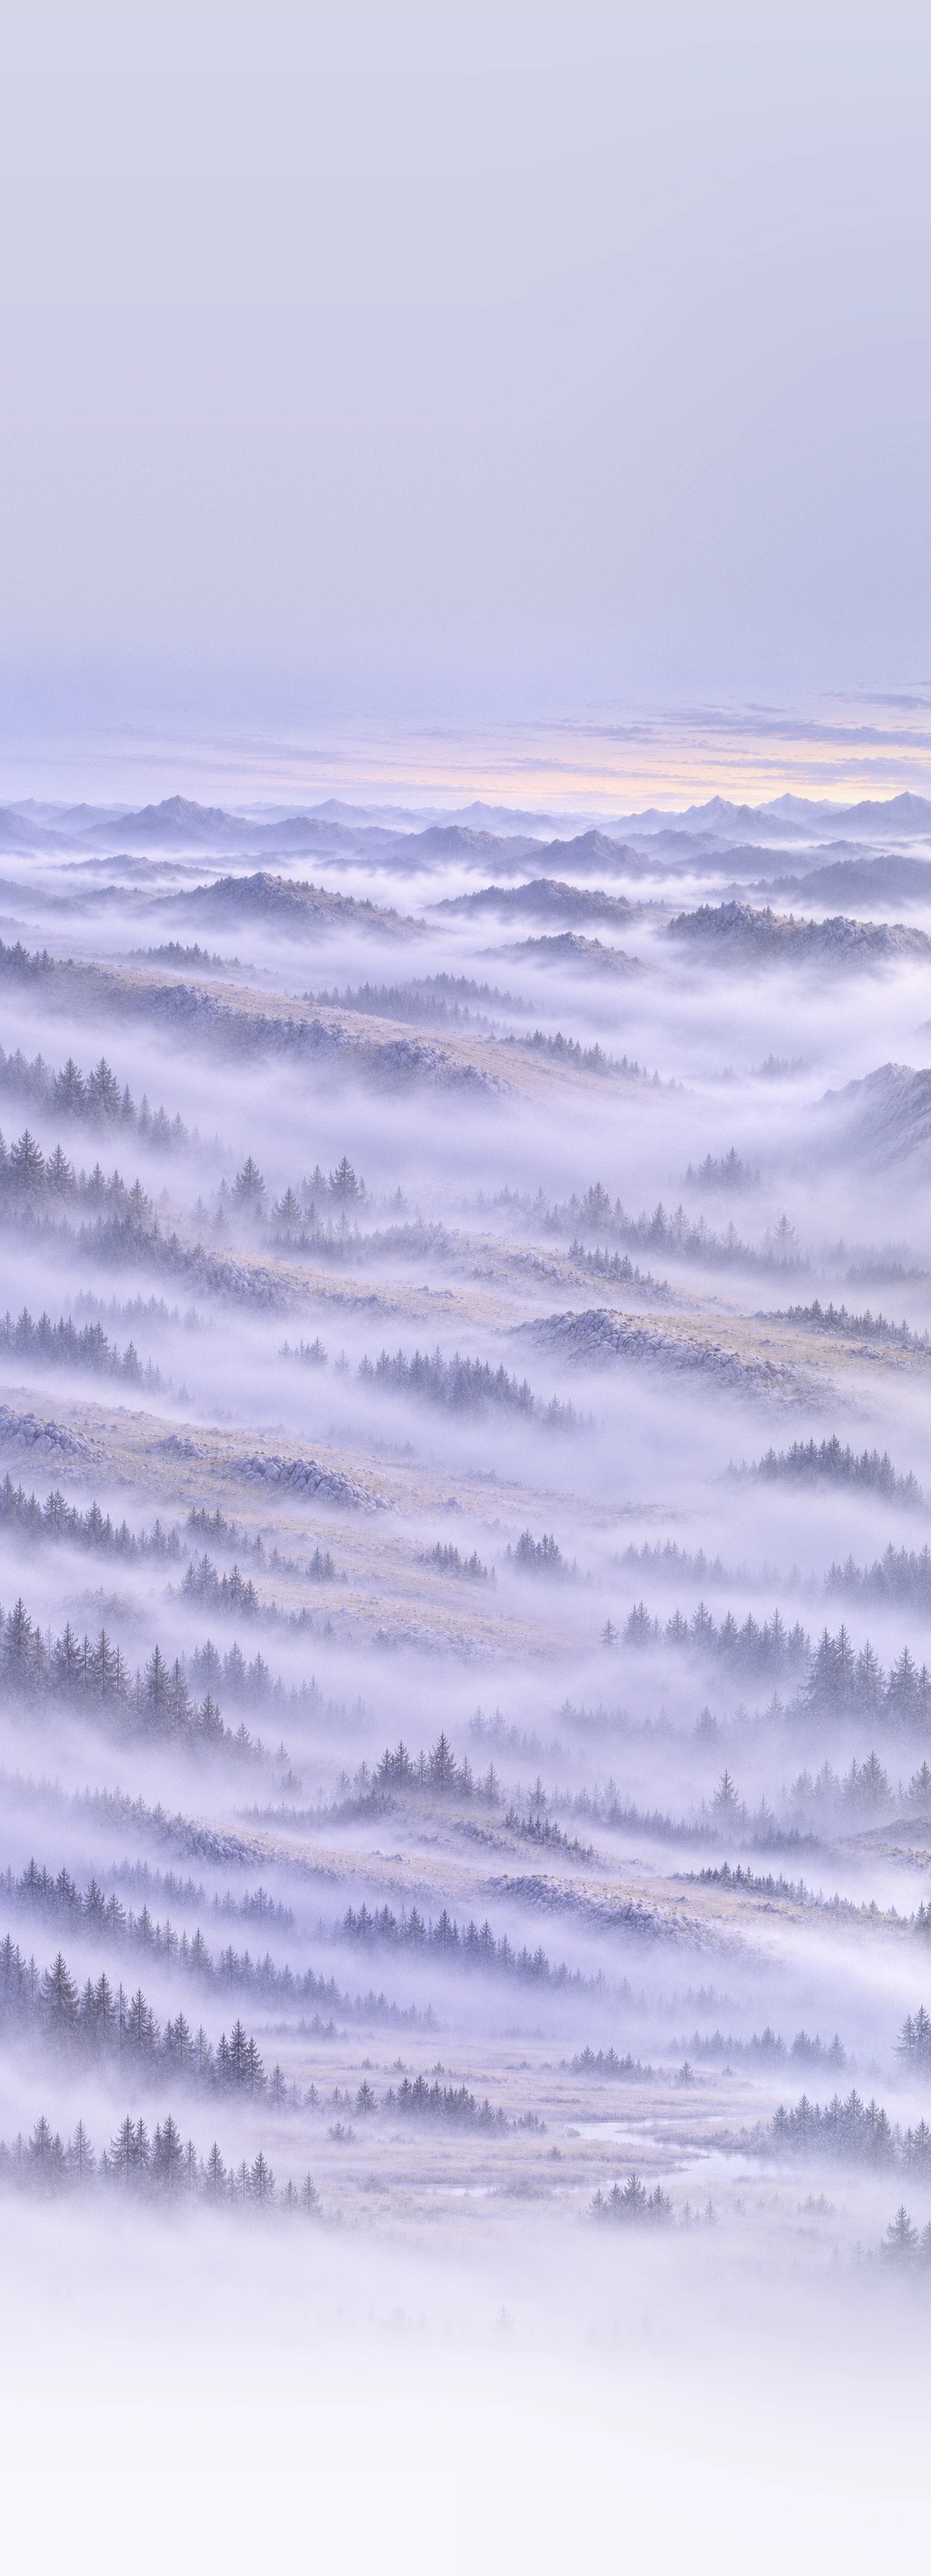
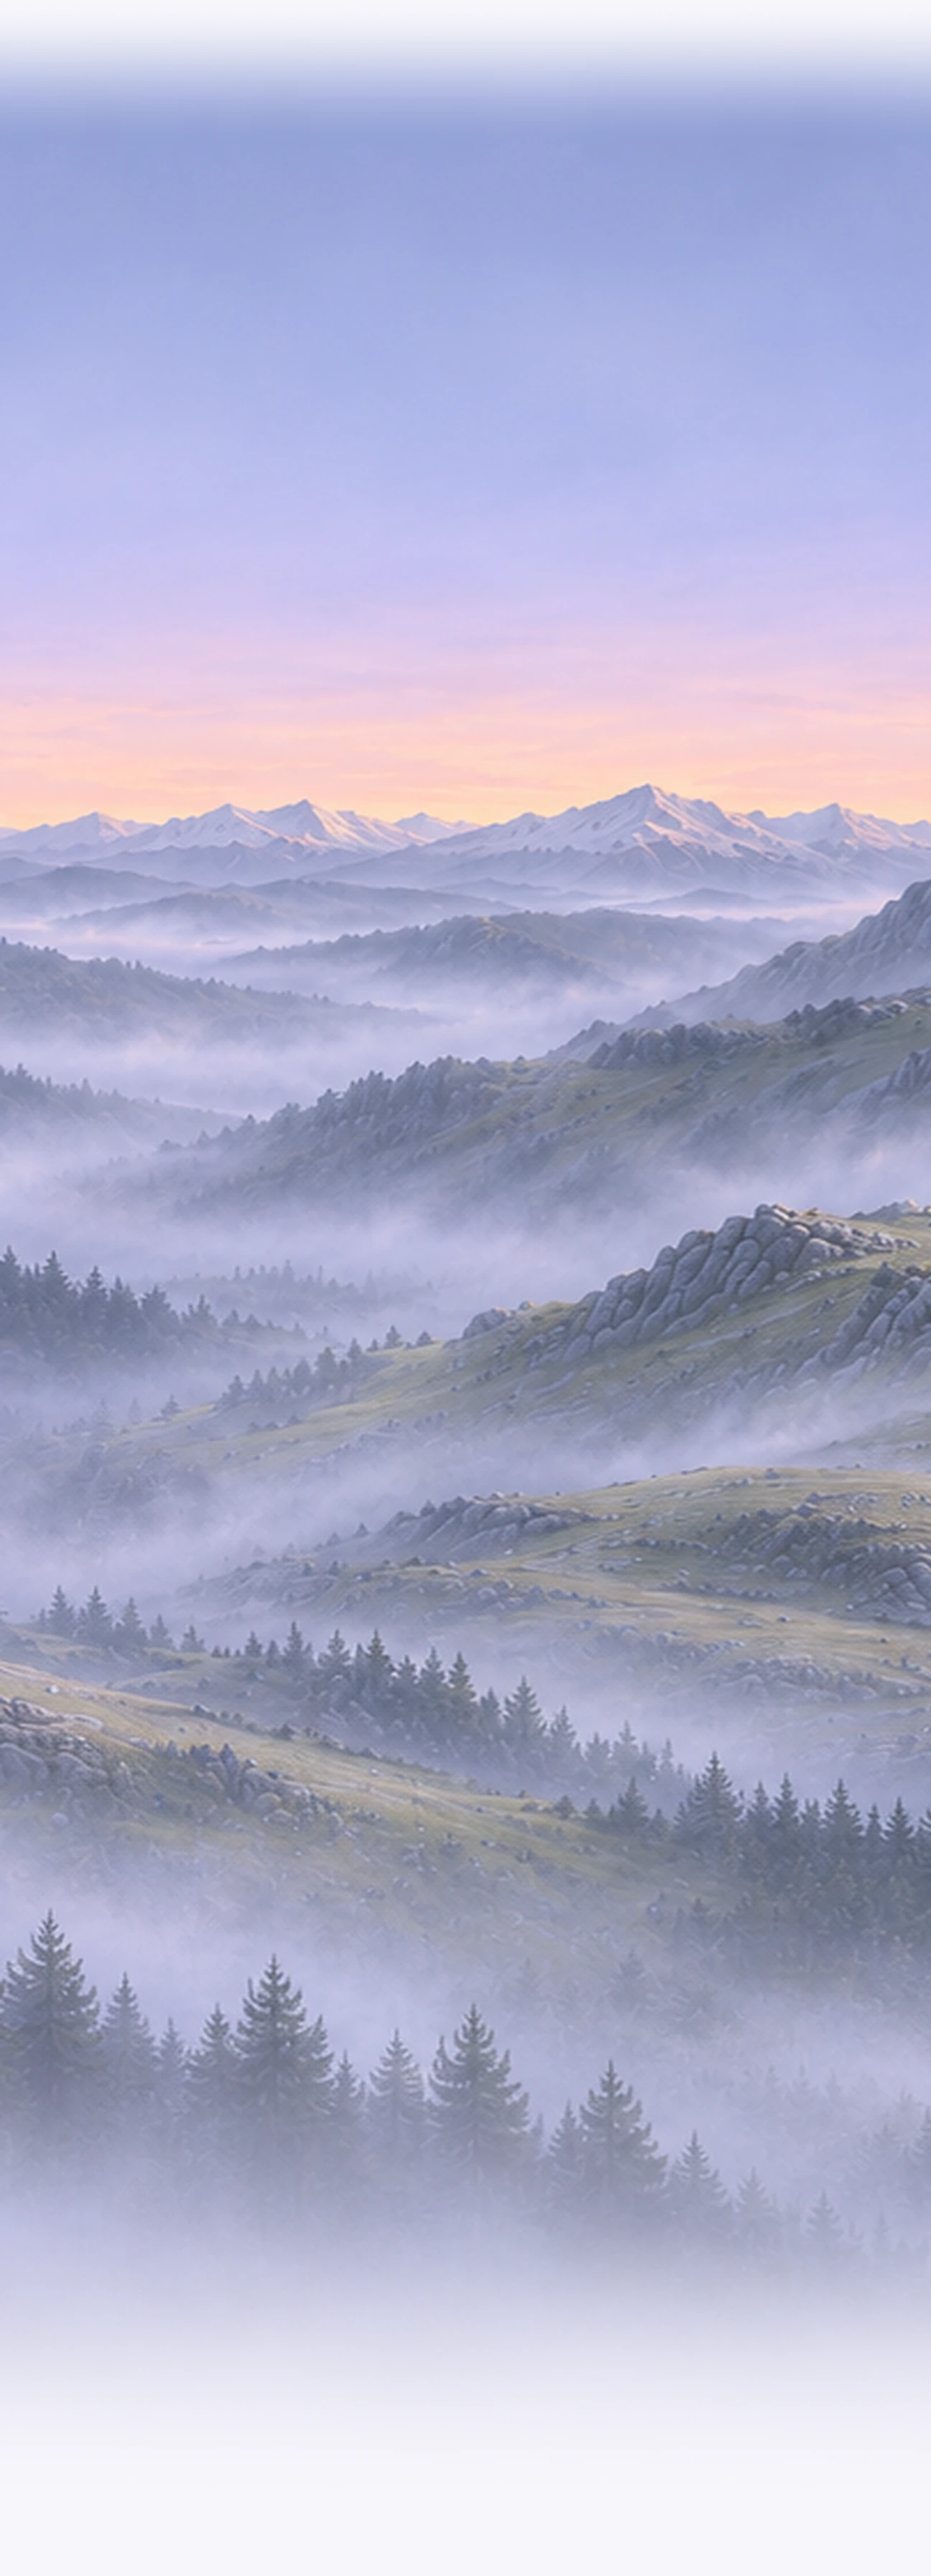
Light world from one painting; Journey trail traced on the new mountain
The light panorama is built from its own master the same way as the dark one (master normalised to 1536 px), so
onboarding, the ceremonies and every tab show the new mountain in both themes. The Ascent's switchbacks now follow
the painting: the bottom meadow, the grassy band above the rock ridge, the painted track back left, the upper
terrace and the snow face to the peak. The Momentum label moves up off the trail.

Claude-Session: https://claude.ai/code/session_01TpqLTggzL92uJWvftw7JkZ

diff --git a/src/core/ascent.ts b/src/core/ascent.ts
@@ -52,27 +52,32 @@ export const LANDMARKS: Record<number, { name: string; icon: 'footsteps' | 'bonf
 export type Point = { x: number; y: number };
 
 /**
- * Switchbacks from the valley floor (bottom left) to the summit (upper right), on the Journey painting. Checked against the painting in the continuous world: two turns
- * sit on solid ground. At the left turn (days 37–39) the trail crossed a pocket of mist above the ridge; it now turns on the
- * ridge and climbs the grassy terrace. At the right turn (days 53–56) it ran along the rock's misty skyline; it
- * now stays on the rock.
+ * Switchbacks from the valley floor (bottom left) to the summit (upper right), traced on the single-painting world
+ * (design/canvas/build_world_from_master.py): along the bottom meadow, up the grassy band above the rock ridge,
+ * back left along the painted track, across the upper terrace, then up the snow face to the peak.
  */
 const WAYPOINTS: Point[] = [
-  { x: 0.07, y: 0.9 },
-  { x: 0.34, y: 0.92 },
-  { x: 0.62, y: 0.87 },
-  { x: 0.82, y: 0.78 },
-  { x: 0.6, y: 0.7 },
-  { x: 0.3, y: 0.66 },
-  { x: 0.19, y: 0.59 },
-  { x: 0.255, y: 0.545 },
-  { x: 0.34, y: 0.495 },
-  { x: 0.62, y: 0.45 },
-  { x: 0.76, y: 0.395 },
-  { x: 0.62, y: 0.29 },
-  { x: 0.5, y: 0.22 },
-  { x: 0.6, y: 0.15 },
-  { x: 0.7, y: 0.105 },
+  { x: 0.05, y: 0.9 },
+  { x: 0.28, y: 0.885 },
+  { x: 0.5, y: 0.8 },
+  { x: 0.7, y: 0.735 },
+  { x: 0.84, y: 0.705 },
+  { x: 0.9, y: 0.665 },
+  { x: 0.83, y: 0.625 },
+  { x: 0.66, y: 0.595 },
+  { x: 0.5, y: 0.555 },
+  { x: 0.34, y: 0.51 },
+  { x: 0.25, y: 0.47 },
+  { x: 0.24, y: 0.43 },
+  { x: 0.32, y: 0.4 },
+  { x: 0.46, y: 0.385 },
+  { x: 0.6, y: 0.365 },
+  { x: 0.7, y: 0.34 },
+  { x: 0.72, y: 0.3 },
+  { x: 0.65, y: 0.265 },
+  { x: 0.6, y: 0.22 },
+  { x: 0.64, y: 0.16 },
+  { x: 0.73, y: 0.09 },
 ];
 
 export const SUMMIT = WAYPOINTS[WAYPOINTS.length - 1];

diff --git a/src/components/Ascent.tsx b/src/components/Ascent.tsx
@@ -24,7 +24,7 @@ const DOTS = trailDots(3);
 /** Where each phase label sits on the art (normalized), clear of the trail. */
 const PHASE_LABEL_AT: Record<1 | 2 | 3, { x: number; y: number }> = {
   1: { x: 0.03, y: 0.755 },
-  2: { x: 0.79, y: 0.555 },
+  2: { x: 0.79, y: 0.5 },
   3: { x: 0.03, y: 0.36 },
 };
 

diff --git a/design/canvas/build_world_from_master.py b/design/canvas/build_world_from_master.py
@@ -23,7 +23,7 @@ def smooth(t):
     return t * t * (3 - 2 * t)
 
 
-m = Image.open(src).convert('RGB')
+m = Image.open(src).convert('RGB').resize((1536, 1024), Image.LANCZOS)  # ChatGPT sometimes returns 1535 px
 m = m.crop((CROP_X, 0, m.width, m.height))
 sw, sh = round(m.width * SCALE), round(m.height * SCALE)
 big = m.resize((sw, sh), Image.LANCZOS).filter(ImageFilter.UnsharpMask(radius=2, percent=40, threshold=2))
